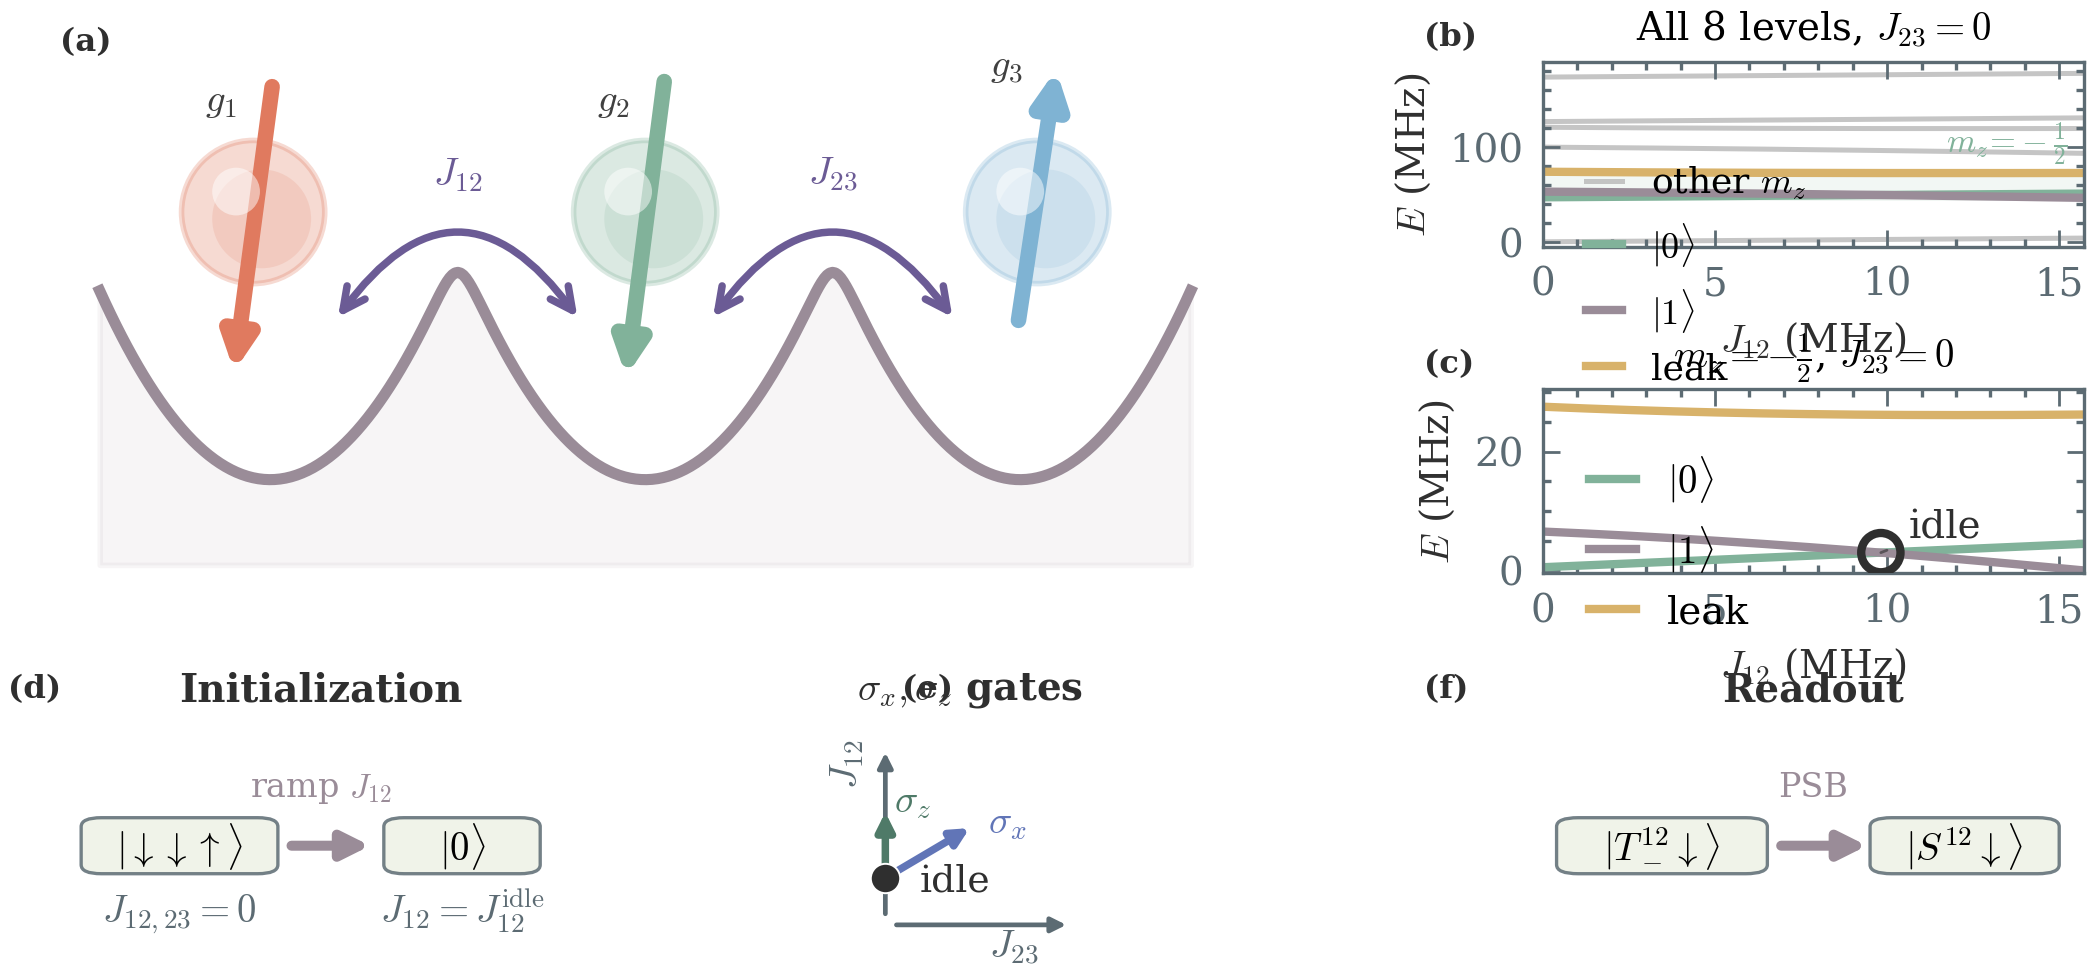
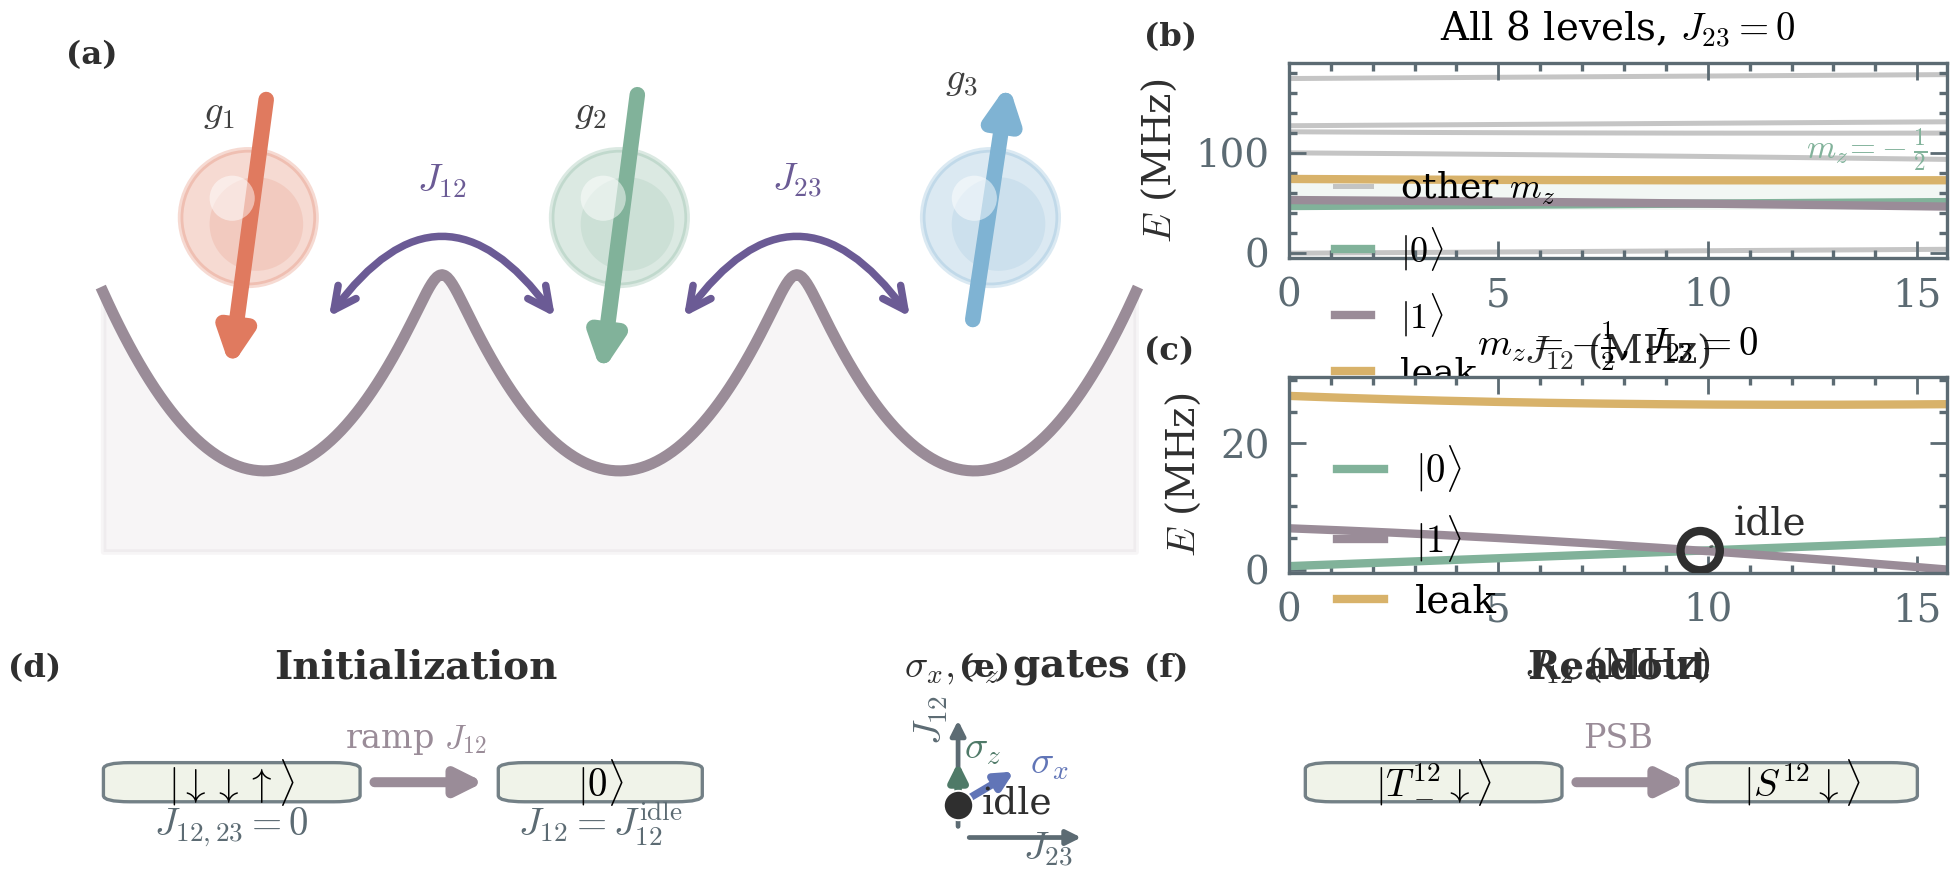
Compact bottom row: narrow ctrl cols, reduce height ratio
Switch to 3×6 GridSpec with width_ratios=[1.1,1.1,0.28,0.28,1.1,1.1].
The ctrl panel sits in the two narrow cols (0.28 each) so its
equal-aspect square nearly fills the allocation with minimal dead space.
Bottom row height_ratio 0.24 < spectrum rows 0.30, making the init/
ctrl/readout strip noticeably more compact. Figure 6.0"×2.55".

diff --git a/tess_code/qubit_passport.py b/tess_code/qubit_passport.py
@@ -650,29 +650,33 @@ def draw_readout(ax):
 def main():
     prx_style()
 
-    # Layout (3 rows × 7 cols):
-    #   Row 0 (top-left):  qubit schematic  │ (b) all-8-levels spectrum
-    #   Row 1 (mid-left):  qubit schematic  │ (c) m_z=-1/2 zoom spectrum
-    #   Row 2 (bottom):    (d) init  │ (e) ctrl  │ gap  │ (f) readout
-    # The qubit schematic spans rows 0-1.
-    fig = plt.figure(figsize=(6.5, 2.85), constrained_layout=False)
+    # Layout (3 rows × 6 cols):
+    #   Rows 0-1, cols 0:4 → qubit schematic  (wide, spans both spectrum rows)
+    #   Row  0,   cols 4:6 → (b) all-8-levels spectrum
+    #   Row  1,   cols 4:6 → (c) m_z=-1/2 zoom
+    #   Row  2,   cols 0:2 → (d) init
+    #   Row  2,   cols 2:4 → (e) ctrl   ← NARROW cols so equal-aspect square fills them
+    #   Row  2,   cols 4:6 → (f) readout
+    #
+    # Narrow cols 2-3 (ratio 0.28 each) keep ctrl almost square → minimal dead space.
+    # Bottom row height_ratio 0.24 < spectrum rows 0.30 → compact.
+    fig = plt.figure(figsize=(6.0, 2.55), constrained_layout=False)
 
     gs = GridSpec(
-        3, 7,
+        3, 6,
         figure=fig,
-        height_ratios=[0.28, 0.28, 0.34],
-        width_ratios=[1, 1, 1, 1, 0.18, 1.1, 1.1],
-        wspace=0.88,
-        hspace=0.72,
+        height_ratios=[0.30, 0.30, 0.24],
+        width_ratios=[1.1, 1.1, 0.28, 0.28, 1.1, 1.1],
+        wspace=0.70,
+        hspace=0.65,
     )
 
-    ax_qubit    = fig.add_subplot(gs[0:2, 0:4])  # spans top two rows, left 4 cols
-    ax_spec_all = fig.add_subplot(gs[0, 5:7])    # (b) all 8 levels
-    ax_spec     = fig.add_subplot(gs[1, 5:7])    # (c) m_z=-1/2 zoom
-
-    ax_init = fig.add_subplot(gs[2, 0:2])
-    ax_ctrl = fig.add_subplot(gs[2, 2:4])        # col 4 is the gap spacer
-    ax_read = fig.add_subplot(gs[2, 5:7])
+    ax_qubit    = fig.add_subplot(gs[0:2, 0:4])
+    ax_spec_all = fig.add_subplot(gs[0, 4:6])
+    ax_spec     = fig.add_subplot(gs[1, 4:6])
+    ax_init     = fig.add_subplot(gs[2, 0:2])
+    ax_ctrl     = fig.add_subplot(gs[2, 2:4])
+    ax_read     = fig.add_subplot(gs[2, 4:6])
 
     draw_qubit_schematic(ax_qubit)
     draw_full_spectrum(ax_spec_all)
@@ -685,8 +689,8 @@ def main():
     panel_label(ax_spec_all, "(b)", x=-0.22, y=1.05)
     panel_label(ax_spec,     "(c)", x=-0.22, y=1.05)
     panel_label(ax_init,     "(d)", x=-0.12, y=1.05)
-    # ctrl uses set_aspect("equal") → dead space on left; x≈0.20 sits in that dead space
-    panel_label(ax_ctrl,     "(e)", x=0.20, y=1.05)
+    # ctrl: equal-aspect square ≈ fills the narrow cols; x=0.13 lands in left dead-space
+    panel_label(ax_ctrl,     "(e)", x=0.13, y=1.05)
     panel_label(ax_read,     "(f)", x=-0.22, y=1.05)
 
     out_dir = Path(__file__).resolve().parent